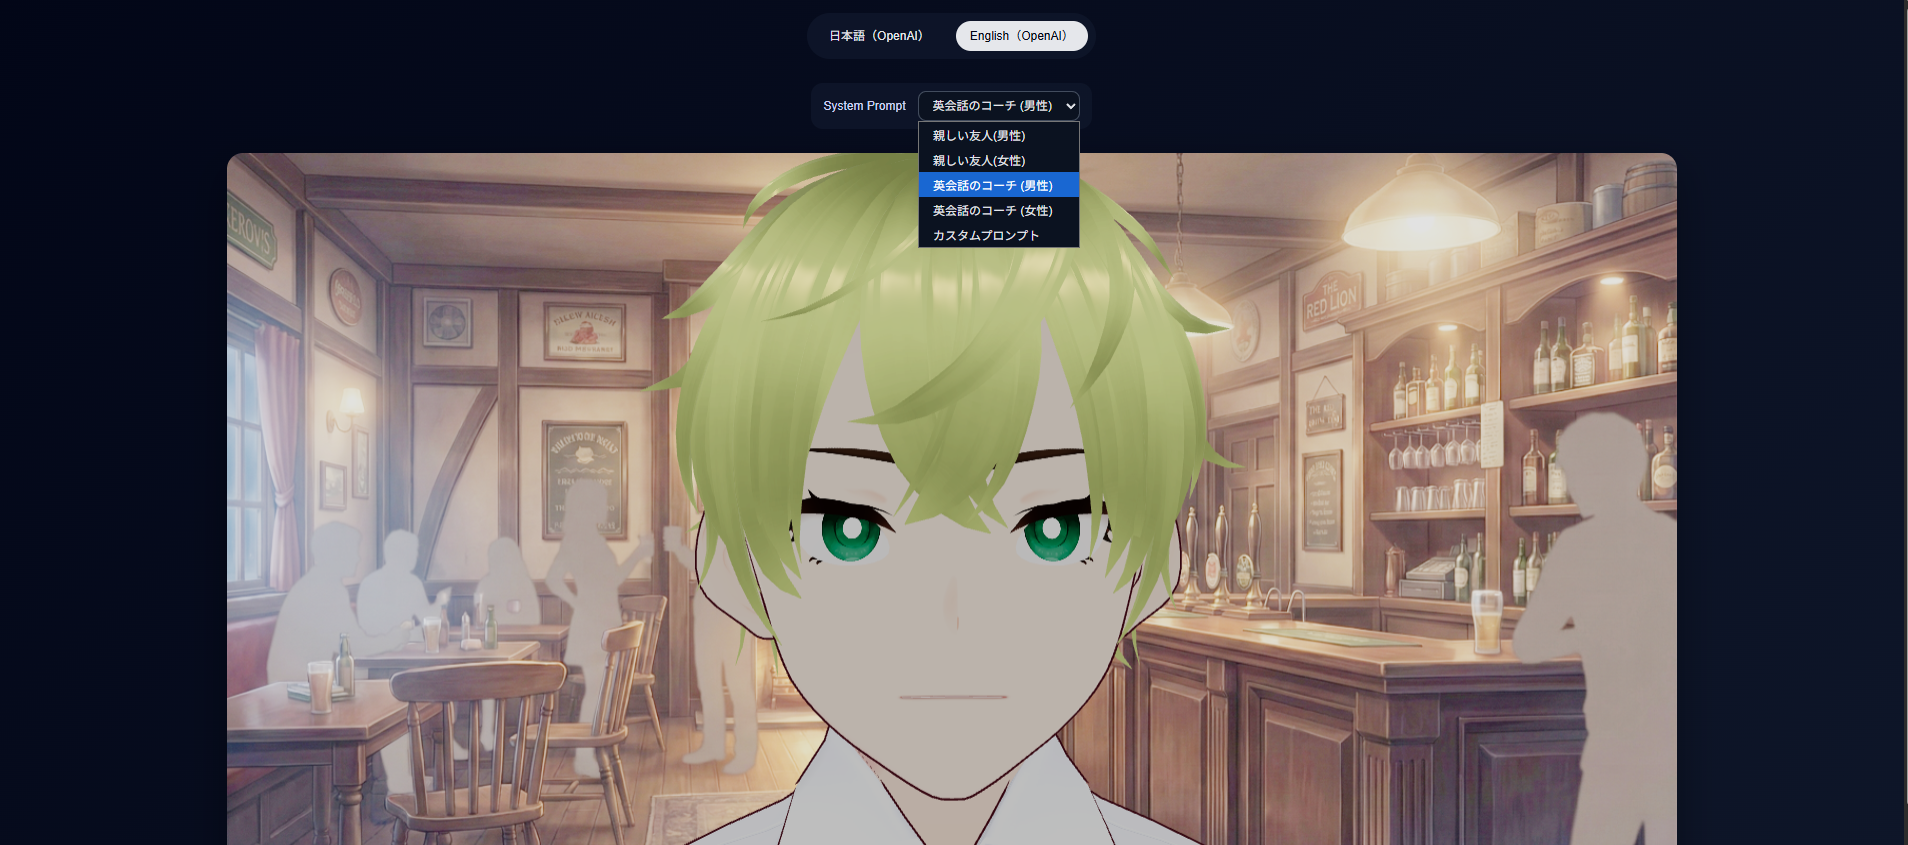
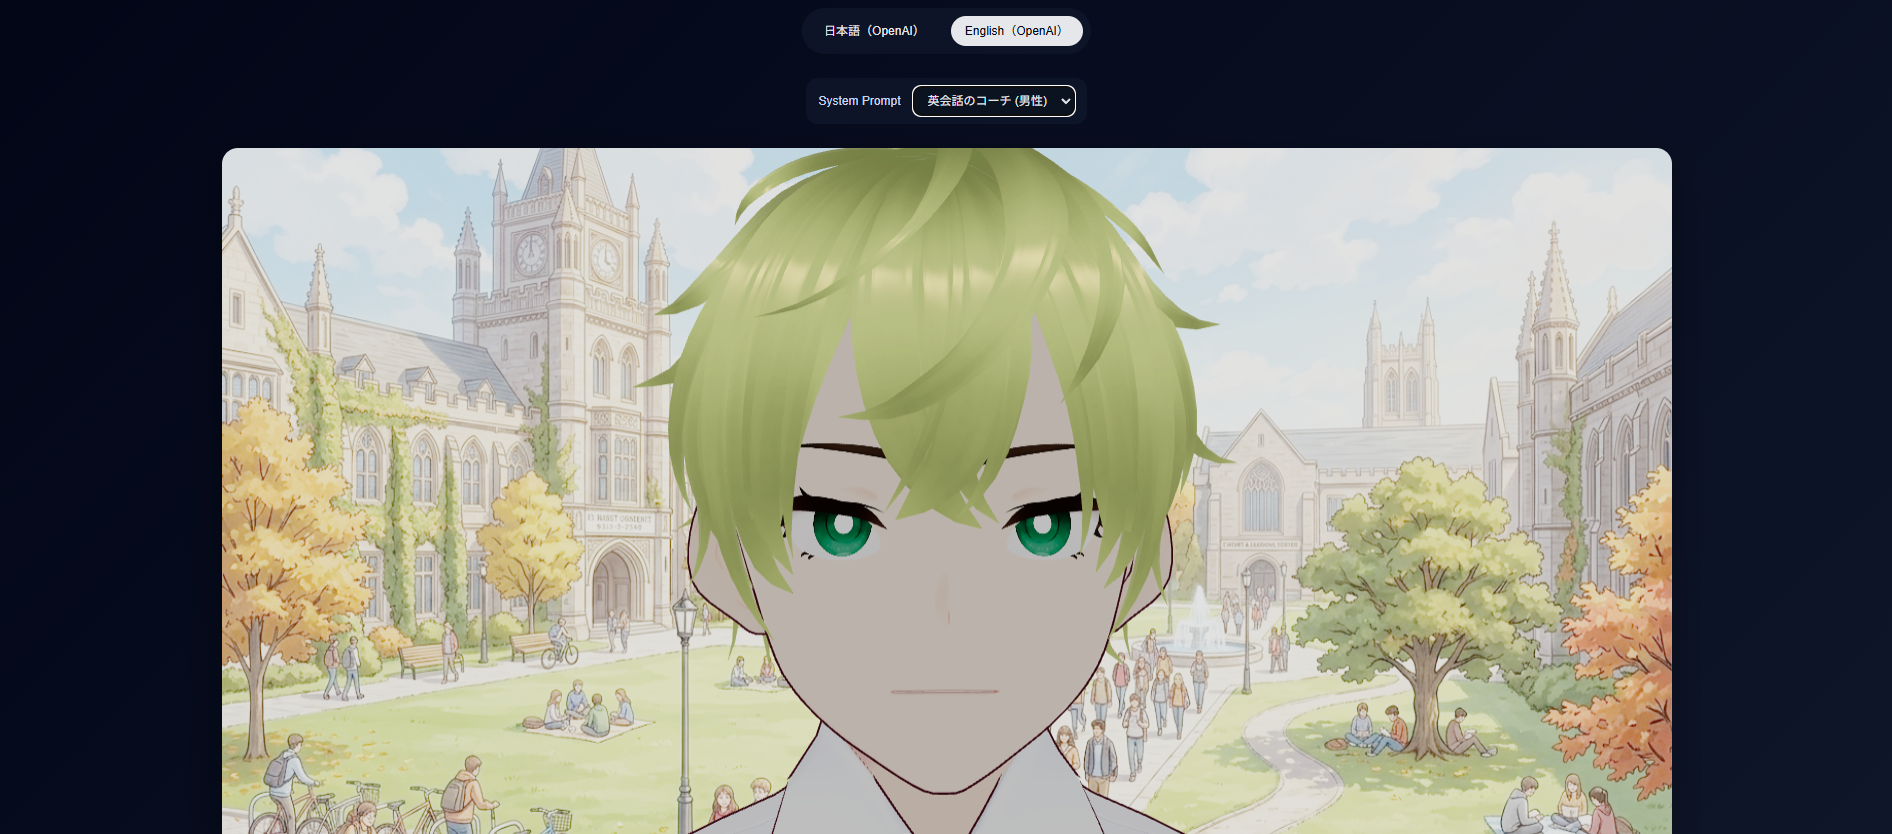
READMEの画像変更

diff --git a/README.md b/README.md
@@ -68,7 +68,7 @@ npm run dev
 
 
 また、アプリ画面上部の「System Prompt」を切り替えることで、予め用意されたプロンプトでアプリを簡易に利用することもできます。
-![App View](public/images_for_readme/app_view.png)
+![App View](public/images_for_readme/system_prompt.png)
 
 ### VRMモデルの用意に関して
 VRMモデルの作成には[こちら](https://vroid.com/studio)のサイトなどが利用できます。
